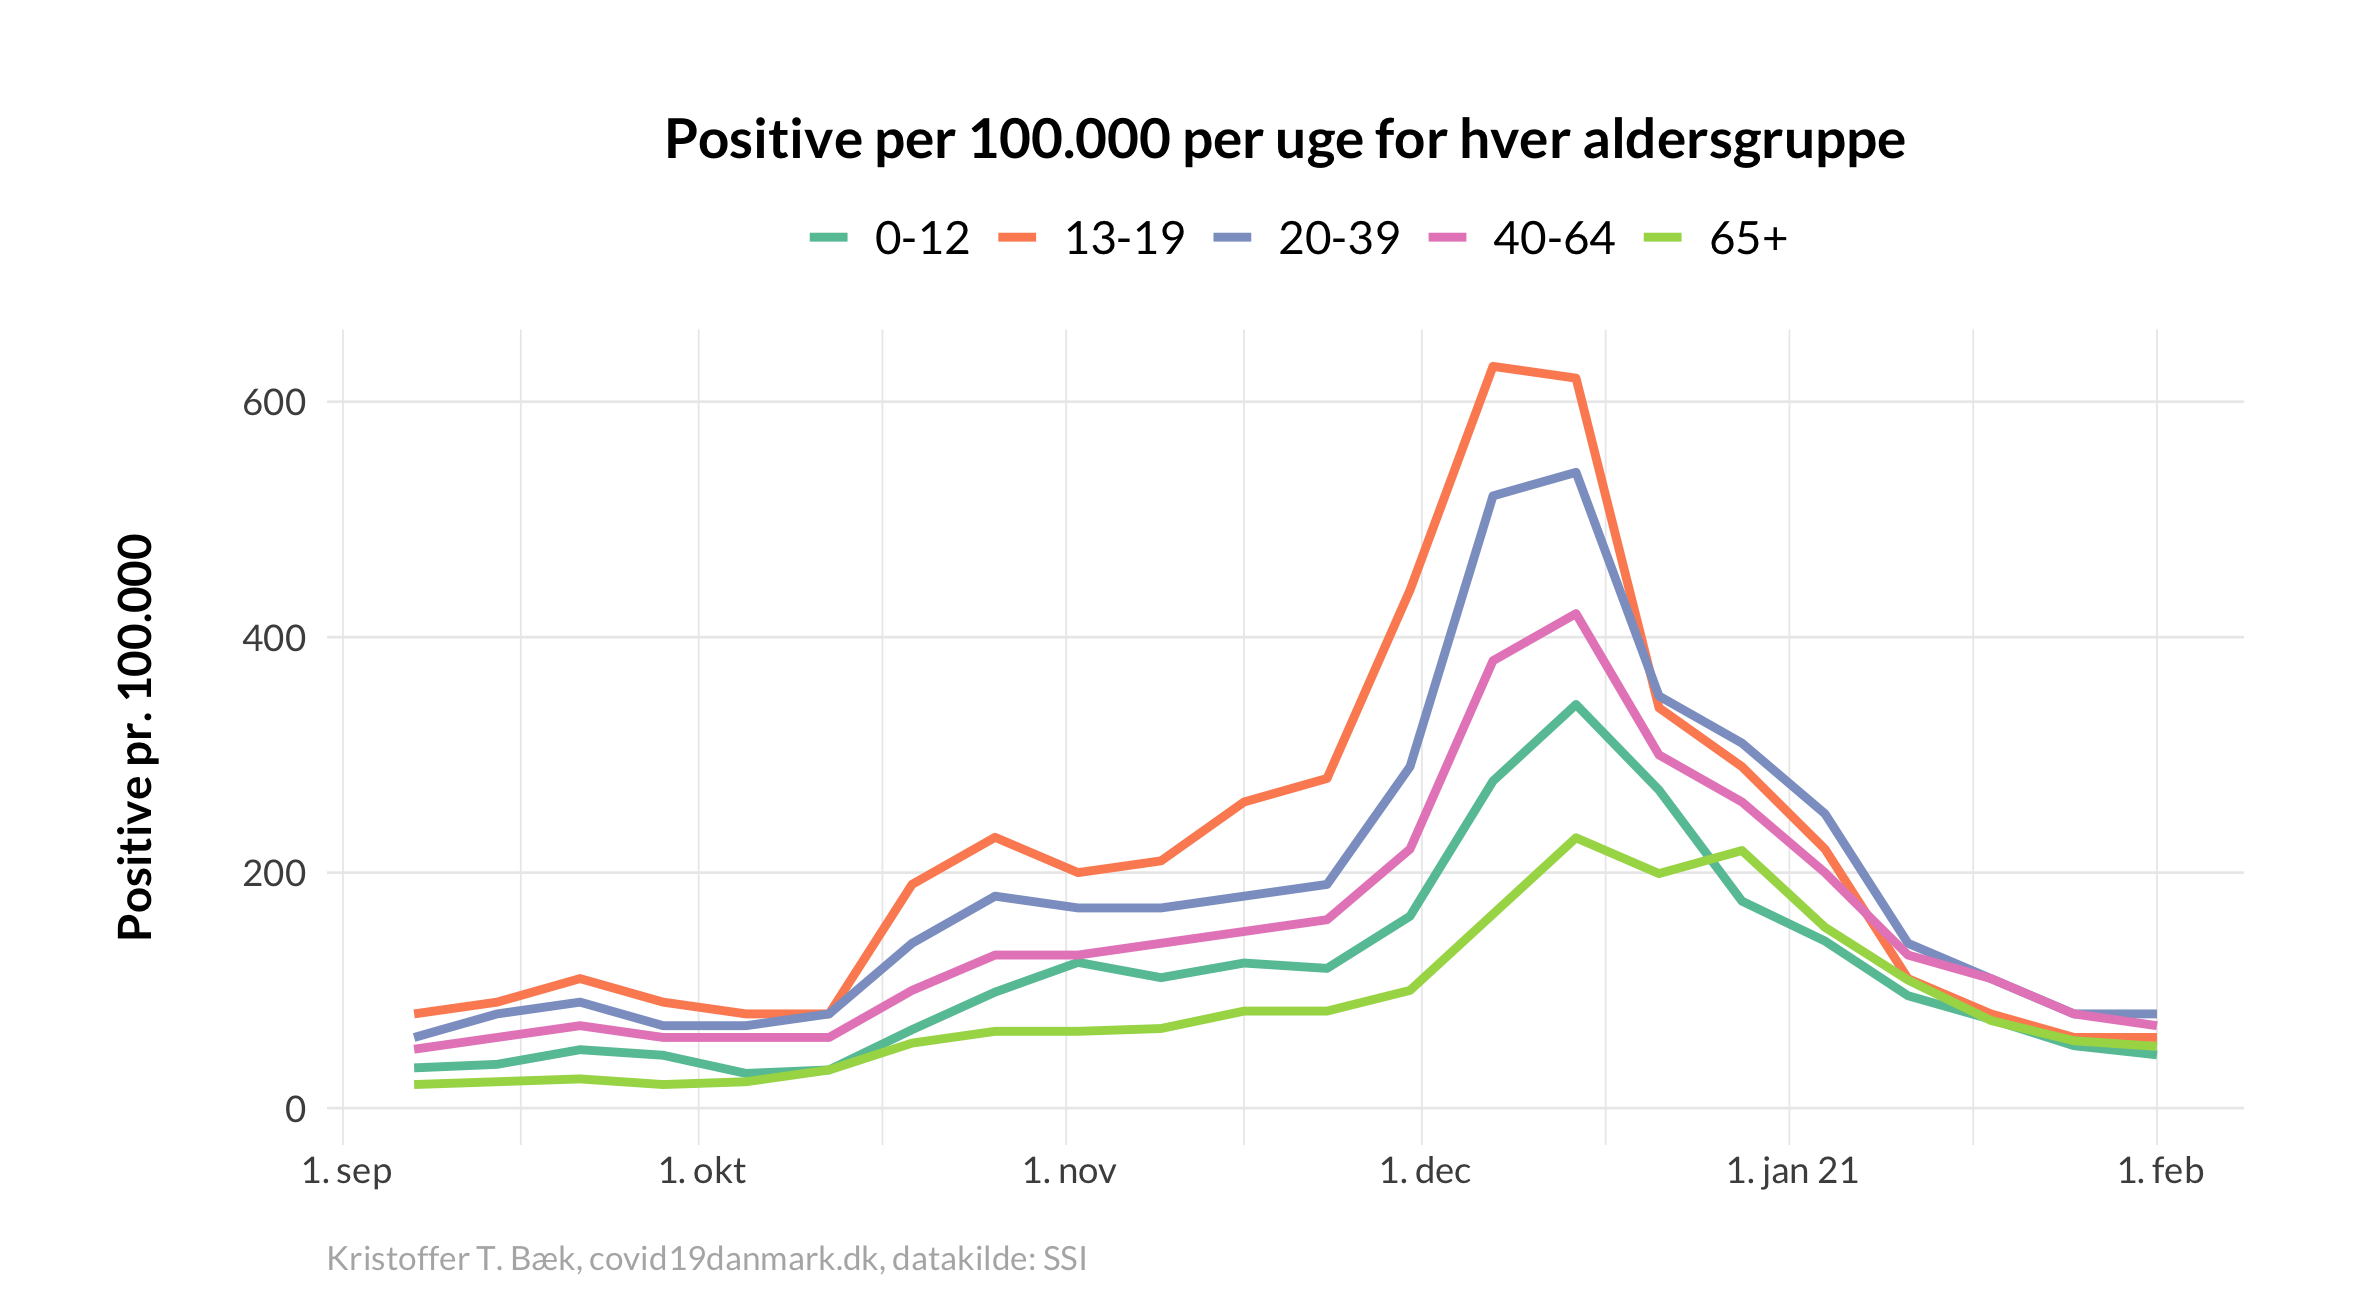
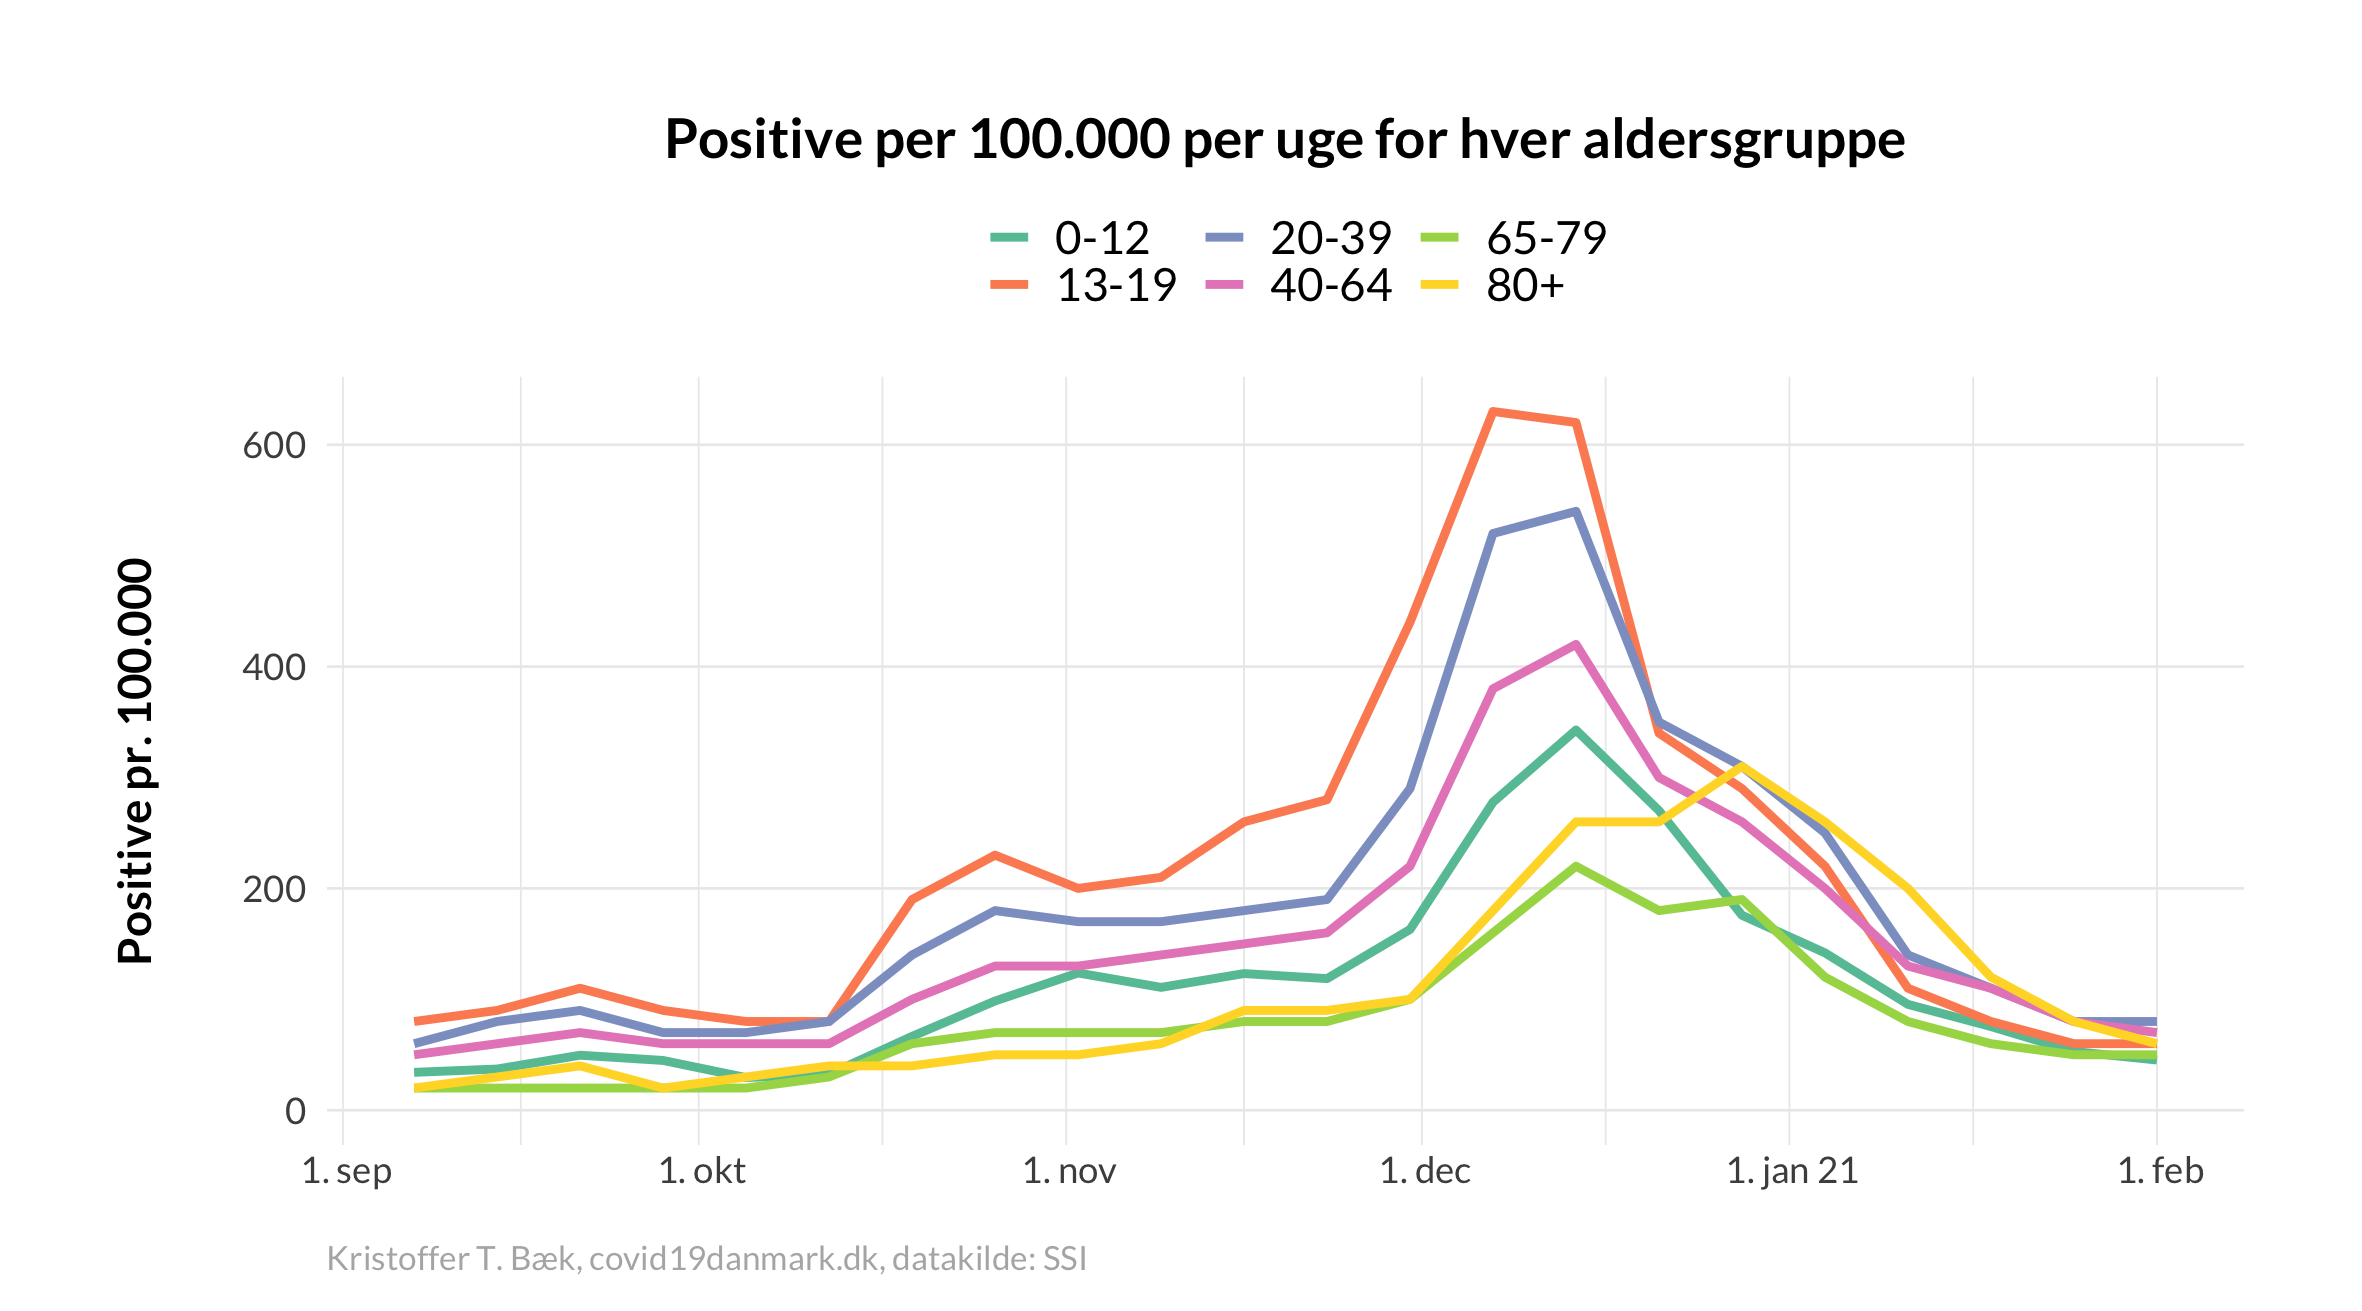
Update plots

diff --git a/age_groups.md b/age_groups.md
@@ -20,7 +20,7 @@ Kristoffer T. Bæk, februar 2021
 
 ## Baggrund
 
-Antallet af SARS-CoV-2 positivt testede har i løbet af efteråret og særligt op til jul været højest blandt de 10-29 årige (Figur 1). Men hvis man vil have en idé om hvor udbredt smitten er i  forskellige aldersgrupper, bør man se de tal i lyset af hvor mange, og hvem, man tester. Jo flere man tester, jo flere smittede finder man, alt andet lige.  SSI beskriver dette forhold i bl.a. [denne rapport](https://www.ssi.dk/-/media/ssi-files/ekspertrapport-af-den-23-oktober-2020-incidens-og-fremskrivning-af-covid19-tilflde.pdf?la=da).
+Antallet af SARS-CoV-2 positivt testede har i løbet af efteråret og særligt op til jul været højest blandt de 10-29 årige (Figur 1). Men for at få en bedre idé om hvor udbredt smitten er i  forskellige aldersgrupper, bør man se de tal i lyset af hvor mange, og hvem, man tester. Jo flere man tester, jo flere smittede finder man, alt andet lige.  SSI beskriver dette forhold i bl.a. [denne rapport](https://www.ssi.dk/-/media/ssi-files/ekspertrapport-af-den-23-oktober-2020-incidens-og-fremskrivning-af-covid19-tilflde.pdf?la=da).
 
 *Figur 1: Positivt testede per aldersgruppe*
 
@@ -46,17 +46,17 @@ For at sikre mig at jeg har aflæst værdierne nogenlunde korrekt, sammenligner 
 
 Man kan se af venstre panel for antal positive per uge, at min aflæsning af graferne er ret præcis. Til gengæld er de aflæste tal for testede generelt ca. 10% lavere end de kendte data (jeg har sammenlignet med tallene for "ikke tidligere positivt testede", da dette tal normalt bruges til beregning af positivprocent). Jeg tror forskellen skyldes, at SSI's graf – helt korrekt – korrigerer for personer der testes flere gange per uge, hvorimod denne korrektion ikke er lavet (det er ikke muligt med de tilgængelige data, se forklaring [her](https://covid19danmark.dk/Forklaring.html#ugentligt-opgjorte-antal-testede-og-positive)) i min opgørelse over det ugentligt antal testede. Grafen til højre kan derfor give et indblik i hvor mange der testes flere gange om ugen.
 
-Alt i alt anser jeg aflæsningen af graferne for at være korrekt.
+Alt i alt anser jeg aflæsningen af graferne for at være korrekt. I det følgende har jeg slået grupperne 0-2 år, 3-6 år, og 7-12 år sammen i én gruppe for overskuelighedens skyld.
 
 ## Resultater
 
-De aflæste data for testede per 100.000 personer fremgår af Figur 4. Her kan man se en ret stor spredning i antallet af testede mellem de forskellige aldersgrupper, og en – måske overraskende – stor stigning i antallet af testede 40-64 årige siden nytår.
+De aflæste data for testede per 100.000 personer fremgår af Figur 4. Her kan man se en meget stor spredning i antallet af testede mellem de forskellige aldersgrupper, og en – måske overraskende – stor stigning i antallet af testede 40-64 årige siden nytår.
 
 *Figur 4: Test-incidens for hver aldersgruppe*
 
 ![](/figures/SSI_read_graph_test_incidense_together.png)
 
-De aflæste data for positive per 100.000 personer fremgår af Figur 5. Her kan man se, ligesom på Figur 1,  at 13-39 årige ligger klart i top gennem det meste af perioden. Derudover ses også et forhøjet niveau blandt 65+ årige fra midt december til kort efter nytår.
+De aflæste data for positive per 100.000 personer fremgår af Figur 5. Her kan man, ligesom på Figur 1, se at unge ligger klart i top gennem det meste af perioden, men en positiv-incidens for 13-19 årige der er ca. 3-4 gange højere end 65+ årige. Derudover ses et forhøjet niveau blandt 80+ årige, som topper kort før nytår, i modsætning til niveauet for 0-64 årige der topper i midten af december.
 
 *Figur 5: Positiv-incidens for hver aldersgruppe*
 
@@ -65,12 +65,12 @@ De aflæste data for positive per 100.000 personer fremgår af Figur 5. Her kan 
 
 Hvis man i stedet kigger på positivprocenten (antallet af positive i forhold til antal testede) ændres billedet dog, idet de fem aldersgrupper ikke længere er helt så forskellige (Figur 6). Man kan altså  forklare noget af forskellen i smittetallet mellem de forskellige aldersgrupper med, at der testes flere personer i nogle aldersgrupper end i andre.    
 
-Desuden ses to toppe i december, én i første tredjedel af måneden for 13-64 årige og én omkring nytår for 0-7 og 65+ årige. Antal testede fluktuerede kraftigt omkring jul og nytår, og derfor skal man i disse uger tage positivprocenten med et vist forbehold, da positivprocenten er følsom overfor ændringer i *hvem* der testes (f.eks. asymptomatiske der vil testes før juleaften vs. risikogrupper/symptomatiske der bliver testet i juledagene). Det er muligt at stigningen i positivprocent mellem jul og nytår for 0-12 årige skyldes mere målrettet testning af f.eks syge og ikke øgning i smitten, idet stigningen i positivprocent skete samtidig med et kraftigt fald i antal testede.    
-
-Men bortset fra juleperioden er positivprocenten dog tættere på at beskrive smitteudbredelsen end de absolutte positivtal fordi den tager hensyn til, at antallet af testede er meget forskelligt i de forskellige aldersgrupper.
+Desuden ses to toppe i december, én i første tredjedel af måneden for 13-64 årige og én omkring nytår for 0-7 og 65+ årige. Antal testede fluktuerede kraftigt omkring jul og nytår, og derfor skal man i disse uger tage positivprocenten med et vist forbehold, da positivprocenten er følsom overfor ændringer i *hvem* der testes (f.eks. asymptomatiske der vil testes før juleaften vs. risikogrupper/symptomatiske der bliver testet i juledagene). Det er muligt at stigningen i positivprocent mellem jul og nytår for 0-12 årige skyldes mere målrettet testning af f.eks syge og ikke øgning i smitten, idet stigningen i positivprocent skete samtidig med et kraftigt fald i antal testede. Stigningen blandt 65+ årige i samme periode afspejler nok i højere grad en stigning i smitte, da der ikke er store udsving i test-incidensen.     
 
 *Figur 6: Positivprocenten for hver aldersgruppe*
 
 ![](/figures/SSI_read_graph_pct_together.png)
 
-Selvom udbredelsen af smitte formentlig ikke varierer så meget mellem aldersgrupperne som de rene smittetal giver anledning til at tro, viser både positivprocent og [seroprævalensstudier](https://bloddonor.dk/coronavirus/) dog at smitteudbredelsen er størst blandt yngre og mindst blandt ældre.
+Med de ovennævnte forbehold i baghovedet er positivprocenten dog tættere på at beskrive smitteudbredelsen end de absolutte positivtal fordi den tager hensyn til, at antallet af testede er meget forskelligt i de forskellige aldersgrupper.
+
+Forskellen i smitteudbredelse varierer derfor nok ikke så meget mellem aldersgrupperne som de rene smittetal giver anledning til at tro.  Det betyder imidlertid ikke at der ikke er forskel, idet både positivprocent og [seroprævalensstudier](https://bloddonor.dk/coronavirus/) viser at smitteudbredelsen er størst blandt yngre og mindst blandt ældre (69+ årige opdeles dog ikke i seroprævalensstudierne, så det er muligt at der er forskelle i denne gruppe som ikke opdages på denne måde).
